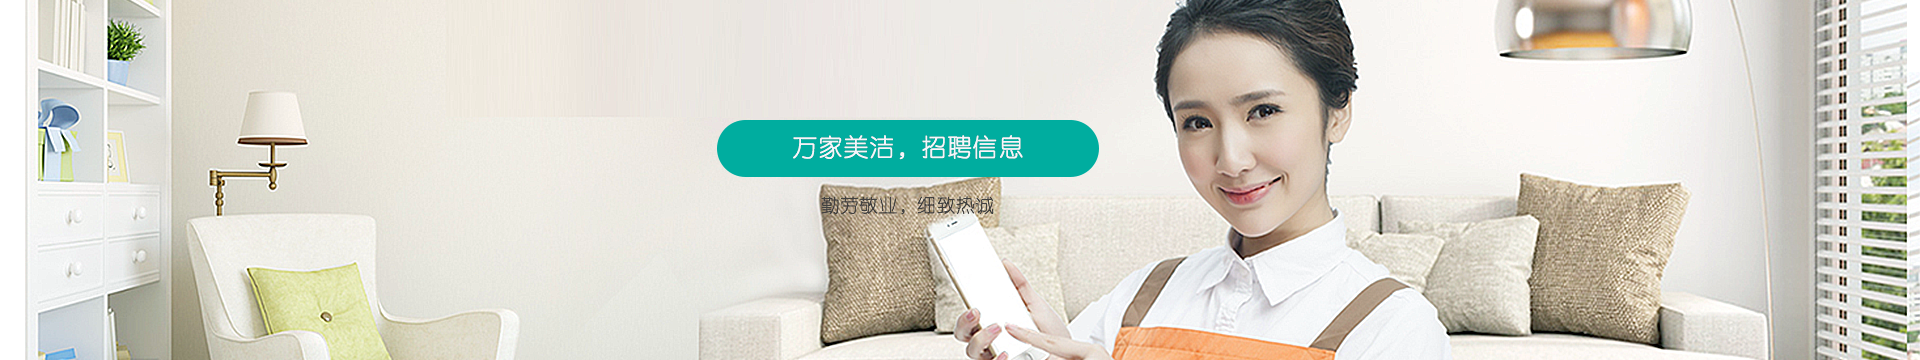
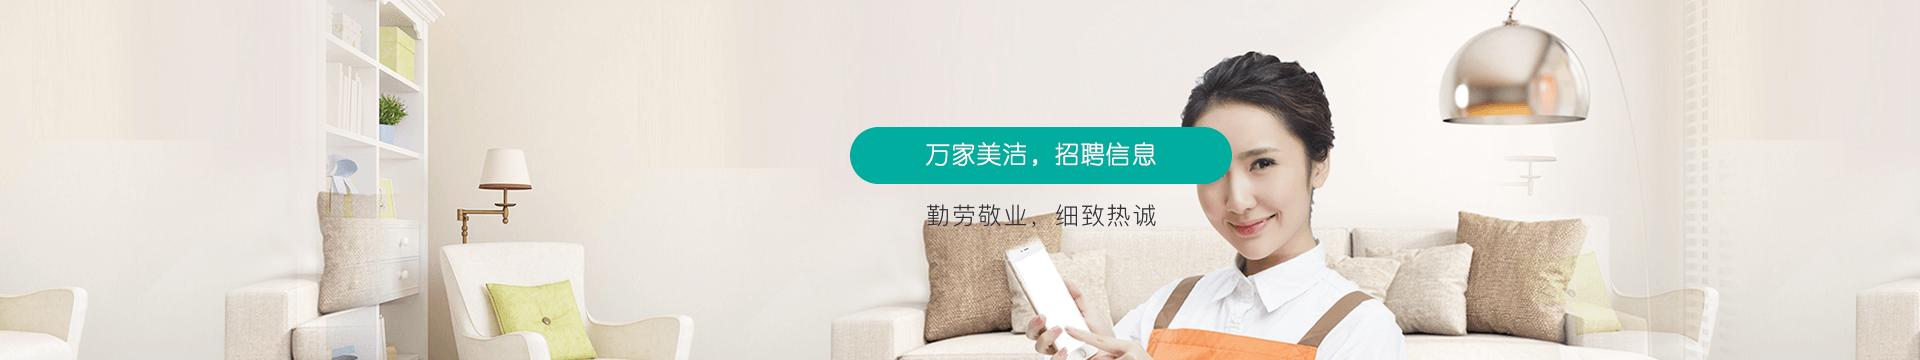
x

diff --git a/index4.html b/index4.html
@@ -284,16 +284,6 @@
 
 
 <script>
-    function loadImg(urlArr){
-        urlArr.forEach(function (url) {
-            var img = new Image();
-            img.src = url;
-        });
-    }
-//    var urlArr = ["./imgs/banner_2.png","./imgs/banner_1.png",'./imgs/img_baoz.png','./imgs/img_job.png','./imgs/img_1.png','./imgs/img_we.png'];
-    var urlArr = ['./imgs/img_baoz.png','./imgs/img_job.png','./imgs/img_1.png','./imgs/img_we.png'];
-    loadImg(urlArr);
-
 
 </script>
 

diff --git a/index4.scss b/index4.scss
@@ -8,15 +8,15 @@ img {
         content: url("./imgs/banner_1_1.png");
         position: absolute;
         z-index: 1000;
-        top: 0;
-        right: 0;
+        top: 90px;
+        right: 152px;
     }
     &::before {
         content: url("./imgs/banner_1_2.png");
         position: absolute;
         z-index: 1000;
         top: 50%;
-        left: 50%;
+        left: 418px;
         transform: translate(-50%,-50%);
     }
 }

diff --git a/index4.css b/index4.css
@@ -7,14 +7,14 @@ img {
     content: url("./imgs/banner_1_1.png");
     position: absolute;
     z-index: 1000;
-    top: 0;
-    right: 0; }
+    top: 90px;
+    right: 152px; }
   #img-hook::before {
     content: url("./imgs/banner_1_2.png");
     position: absolute;
     z-index: 1000;
     top: 50%;
-    left: 50%;
+    left: 418px;
     transform: translate(-50%, -50%); }
 
 .body {
